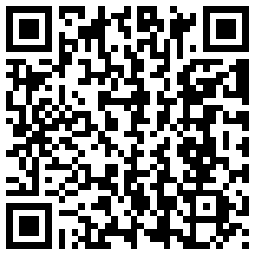
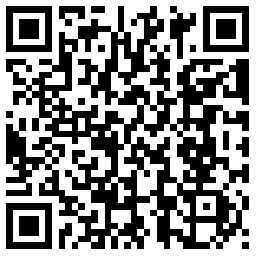
update doc

Changed region(s): [[0.3125, 0.0, 0.6875, 1.0], [0.0, 0.25, 0.3125, 0.9375], [0.9062, 0.8125, 0.9688, 0.875]]

diff --git a/README.md b/README.md
@@ -36,7 +36,7 @@
 
 ## 下载
 
-[Apk下载](https://github.com/zrq1060/architecture-android-old/blob/master/docs/images/apk/app-release.apk)
+[Apk下载](https://github.com/zrq1060/architecture-android/blob/master/docs/images/apk/app-release.apk)
 
 **扫码下载**
 
